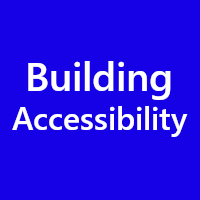
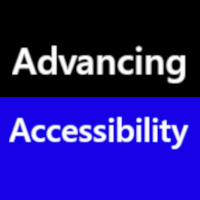
updating meta information and changing name of blog

diff --git a/_layouts/default.html b/_layouts/default.html
@@ -1,8 +1,10 @@
 <!DOCTYPE html>
 <html lang="en">
 	<head>
-		<title>{{ page.title }} - Building Accessibility Blog</title>
+		<title>{{ page.title }} - Advancing Accessibility Blog</title>
+		<meta property="og:title" content="{{ page.title }}"/>
 		<meta name="description" content="{{ page.description }}"/>
+		<meta property="og:description" content="{{ page.description }}"/>
 		<!-- link to main stylesheet -->
 		<link rel="stylesheet" type="text/css" href="/css/main.css">
 		<meta name="viewport" content="width=device-width,initial-scale=1">
@@ -11,7 +13,7 @@
 	<body>
 		<nav>
 			<ul>
-				<li><a href="/">Home</a></li>
+				<li><a href="/">Advancing Accessibility Blog</a></li>
 				<li><a href="/about">About</a></li>
 				<li><a href="/tools">Tools</a></li>
 				<!-- <li><a href="/blog">Blog</a></li> -->
@@ -24,8 +26,7 @@
 		</main><!-- /.container -->
 		<footer>
 			<ul>
-				<!-- <li><a href="mailto:hankquinlanhub@gmail.com">email</a></li> -->
-				<li><a href="https://jlukosky.github.io">Building Accessibility Blog</a></li>
+				<li><a href="https://twitter.com/JLukosky?ref_src=twsrc%5Etfw" class="twitter-follow-button" data-size="large" data-dnt="true" data-show-count="false">Follow @JLukosky</a><script async src="https://platform.twitter.com/widgets.js" charset="utf-8"></script></li>
 			</ul>
 		</footer>
 	</body>

diff --git a/_posts/2019-05-16-Focusing-on-disabled-elements.md b/_posts/2019-05-16-Focusing-on-disabled-elements.md
@@ -13,7 +13,7 @@ ogimage: "https://jlukosky.github.io/assets/2019/05/horsesblurred.jpg"
 
 ![A sharply focused horse on a beach next to two blurred horses](/assets/2019/05/horsesblurred.jpg)
 
-A friend of mine insists that disabled form fields should be focusable. Their reasoning, as a blind person, is that it makes it easier to determine the contents of a form. We certainly don't want to hide anything.
+A friend of mine (I have a few, honestly!) insists that disabled form fields should be focusable. Their reasoning, as a blind person, is that it makes it easier to determine the contents of a form. We certainly don't want to hide anything.
 
 Let's look at what makes a disabled form element special. According to [HTML5 4.13 Disabled elements](https://www.w3.org/TR/2014/REC-html5-20141028/disabled-elements.html) the following elements can be actually disabled using the disabled attribute:
 
